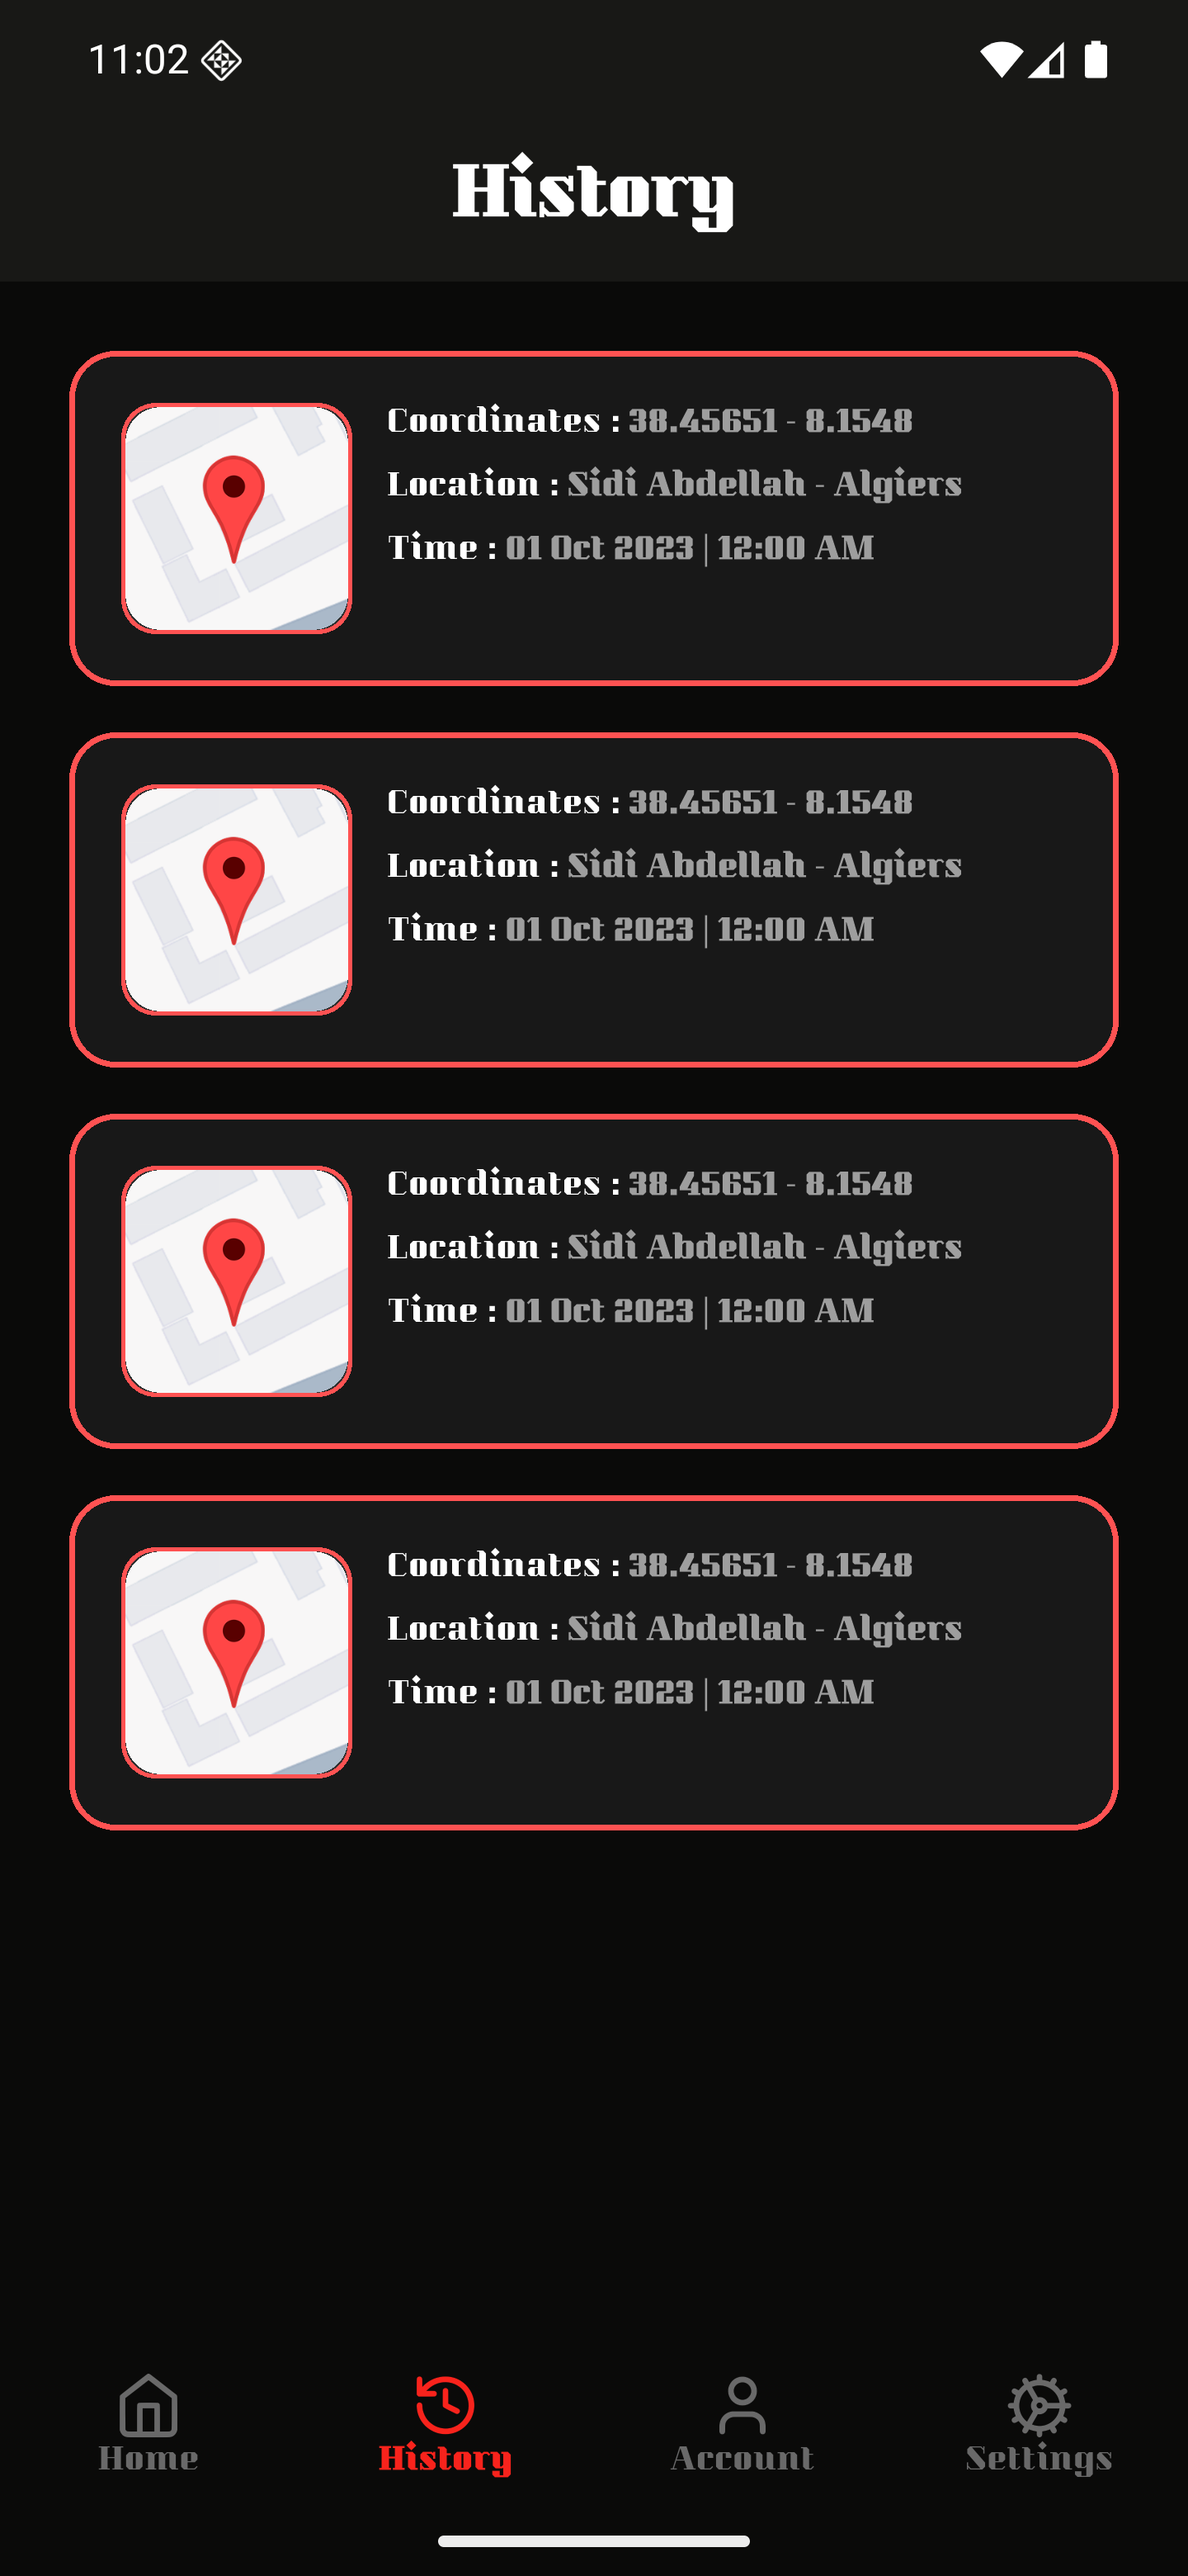
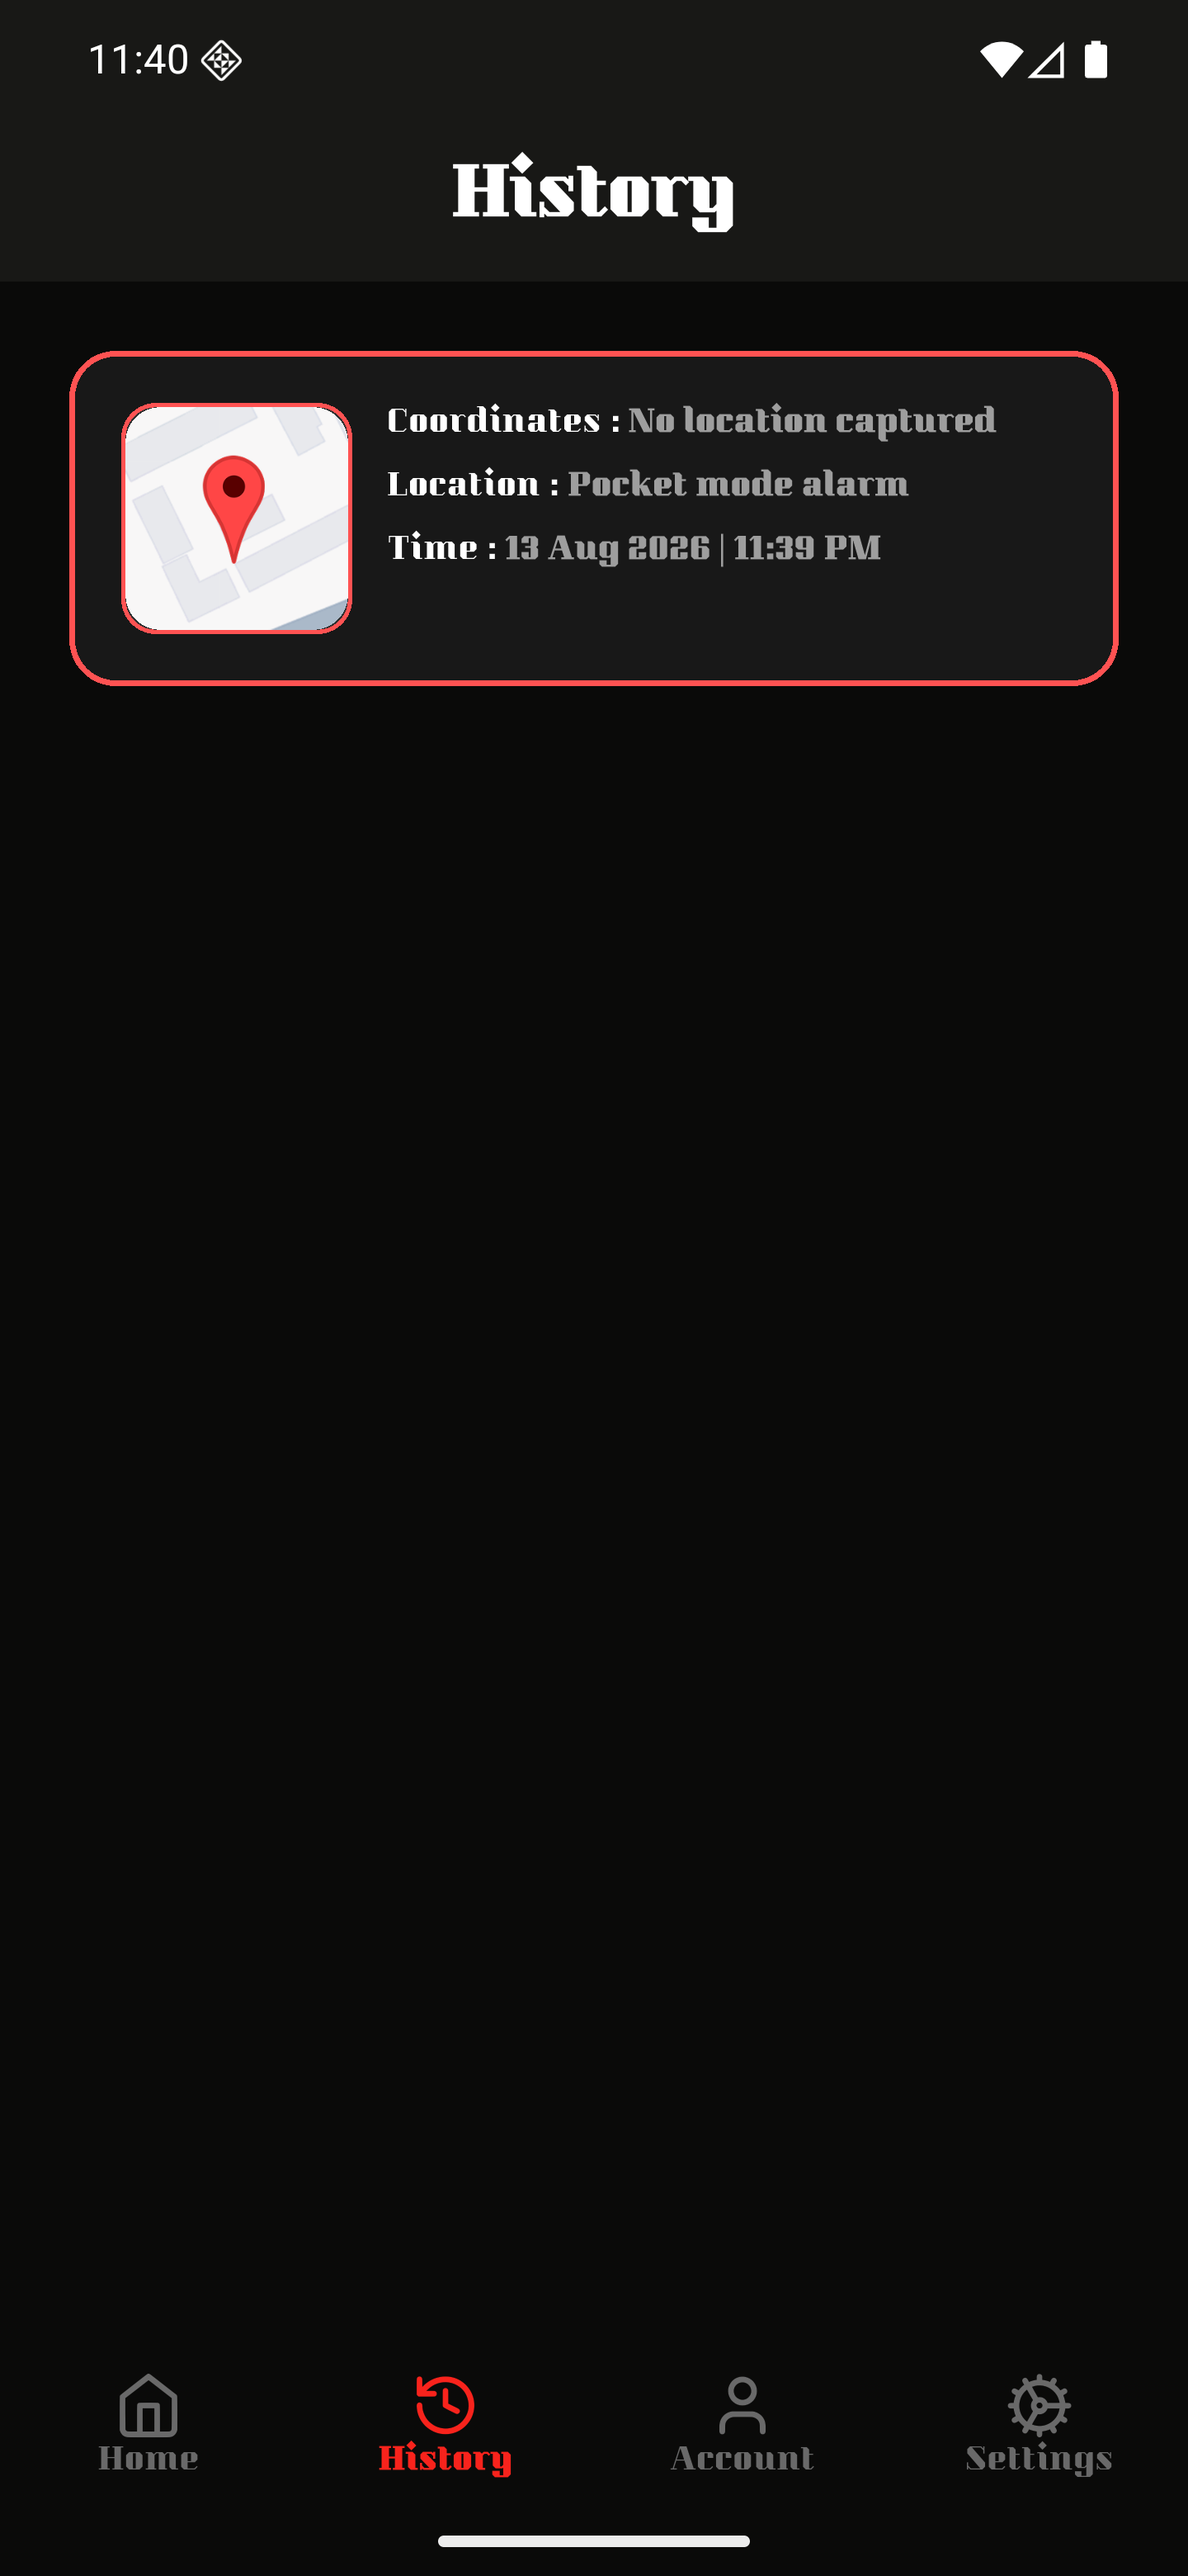
fix: add missing ConfigValues model file
Was created and used by ConfigurationCard/Home in earlier commits but
never actually staged - those commits referenced a file that didn't
exist in git history, so the repo didn't compile from a fresh clone.
flutter analyze passed locally because the file was present on disk,
just untracked.

diff --git a/lib/models/config_values.dart b/lib/models/config_values.dart
@@ -1,0 +1,49 @@
+class ConfigValues {
+  final String mode;
+  final double delay;
+  final double grace;
+  final bool camera;
+  final bool location;
+  final double sound;
+  final bool vibration;
+
+  const ConfigValues({
+    required this.mode,
+    required this.delay,
+    required this.grace,
+    required this.camera,
+    required this.location,
+    required this.sound,
+    required this.vibration,
+  });
+
+  static const defaults = ConfigValues(
+    mode: 'Pocket',
+    delay: 1.0,
+    grace: 0.5,
+    camera: false,
+    location: false,
+    sound: 0.5,
+    vibration: true,
+  );
+
+  ConfigValues copyWith({
+    String? mode,
+    double? delay,
+    double? grace,
+    bool? camera,
+    bool? location,
+    double? sound,
+    bool? vibration,
+  }) {
+    return ConfigValues(
+      mode: mode ?? this.mode,
+      delay: delay ?? this.delay,
+      grace: grace ?? this.grace,
+      camera: camera ?? this.camera,
+      location: location ?? this.location,
+      sound: sound ?? this.sound,
+      vibration: vibration ?? this.vibration,
+    );
+  }
+}

diff --git a/README.md b/README.md
@@ -3,42 +3,43 @@
   BRB
 </h1>
 
-**BRB** is a Flutter app that watches your phone's motion, proximity, and location sensors while you're away from it, and is meant to alarm when someone picks it up or walks off with it. Built with Dart, `geolocator`, `sensors_plus`, `proximity_sensor`, `pedometer`, and `camera`.
+**BRB** is a Flutter app that watches your phone's motion, proximity, and location sensors while you're away from it, and alarms when someone picks it up or walks off with it. Built with Dart, `geolocator`, `sensors_plus`, `proximity_sensor`, `pedometer`, and `camera`.
 
 ## Screenshots
 
 <p align="center">
-  <img src="assets/images/screenshots/home.png" alt="Home screen" width="200" />
-  <img src="assets/images/screenshots/presets.png" alt="Presets screen" width="200" />
-  <img src="assets/images/screenshots/history.png" alt="History screen" width="200" />
-  <img src="assets/images/screenshots/account.png" alt="Account screen" width="200" />
-  <img src="assets/images/screenshots/settings.png" alt="Settings screen" width="200" />
+  <img src="assets/images/screenshots/home.png" alt="Home screen" width="190" />
+  <img src="assets/images/screenshots/alarm.png" alt="Alarm screen" width="190" />
+  <img src="assets/images/screenshots/presets.png" alt="Presets screen" width="190" />
+  <img src="assets/images/screenshots/history.png" alt="History screen" width="190" />
+  <img src="assets/images/screenshots/settings.png" alt="Settings screen" width="190" />
 </p>
 
-## Status
+## How it works
 
-The UI shell is largely built out, but the core "detect a pickup and alarm" pipeline is not wired up yet — the sensor services and the arm/disarm toggle exist independently of each other. See [Known gaps](#known-gaps) below.
+Arming Home starts `DetectionService`, which watches the sensors for the active mode and fires once a reading holds past threshold for the configured delay:
 
-## Features
+- **Pocket** - sudden motion, or the proximity sensor going from covered to uncovered
+- **Sensitive** - same motion check, much lower threshold
+- **Distant** - GPS distance from the arm point exceeds the configured range
+- **Steps** - step counter advances past a small threshold
 
-**Working:**
-- Settings (sensitivity, detection delay, alarm tone, dark mode, notifications, language) persisted via `shared_preferences`
-- Account profile photo via camera capture or gallery picker, persisted locally
-- History event cards deep-link into Google/Apple Maps from coordinates
-- Individually-functional sensor wrappers: GPS distance tracking, accelerometer/gyroscope/magnetometer streams, proximity, step counting, in-app camera capture
+On trigger, `AlarmController` vibrates, plays an alert sound, optionally snaps a photo and grabs a GPS fix (per the active config), logs a real event to History, and shows a full-screen alarm screen that blocks the back gesture and (if a PIN is set in Settings) requires it to dismiss.
 
-**Not wired up yet:**
-- Home screen's arm/disarm button is cosmetic — it flips a label between "ON!"/"OFF!" and does not start any sensor service, request permissions, or arm anything
-- No logic anywhere combines sensor readings + sensitivity/delay settings into an actual "phone was picked up" decision or alarm trigger
-- Presets and the Home configuration card hold their values in memory only (`useState`-style) — nothing persists or feeds detection
-- History is 4 hardcoded identical entries, not a real event log
-- Alarm tone/sound settings don't play anything; vibration toggle never calls the `vibration` package
+Presets, the Home configuration card, History events, and Account profile fields all persist via `shared_preferences` - nothing resets on restart.
+
+## Known limitations
+
+- Detection is heuristic (accelerometer-magnitude/proximity/GPS/step thresholds), not ML-based - it can false-trigger on a hard bump or miss a very gentle pickup.
+- Alarm "tone" selection is persisted but not distinct per-tone audio - there are no bundled sound assets, so triggering plays the system alert sound.
+- History shows raw coordinates, not a reverse-geocoded place name.
+- Dark Mode toggle persists but doesn't switch themes yet - the app is dark-only.
 
 ## Tech
 
 - Flutter · Dart
-- `geolocator`, `sensors_plus`, `proximity_sensor`, `pedometer`, `camera`, `permission_handler`
-- `shared_preferences`, `image_picker`, `path_provider`, `vibration`, `url_launcher`
+- `geolocator`, `sensors_plus`, `proximity_sensor`, `pedometer`, `camera`, `permission_handler`, `vibration`
+- `shared_preferences`, `image_picker`, `path_provider`, `url_launcher`
 
 ## Getting Started
 
@@ -46,12 +47,4 @@ The UI shell is largely built out, but the core "detect a pickup and alarm" pipe
 flutter pub get
 flutter run
 ```
-
-## Known gaps
-
-Tracked in detail in project notes — highlights:
-- Detection pipeline (sensors → decision → alarm) doesn't exist yet
-- Home/Presets state isn't persisted
-- History has no real data source
-- Debug/release builds were broken by an outdated `google_fonts` pin (fixed)
 </content>
